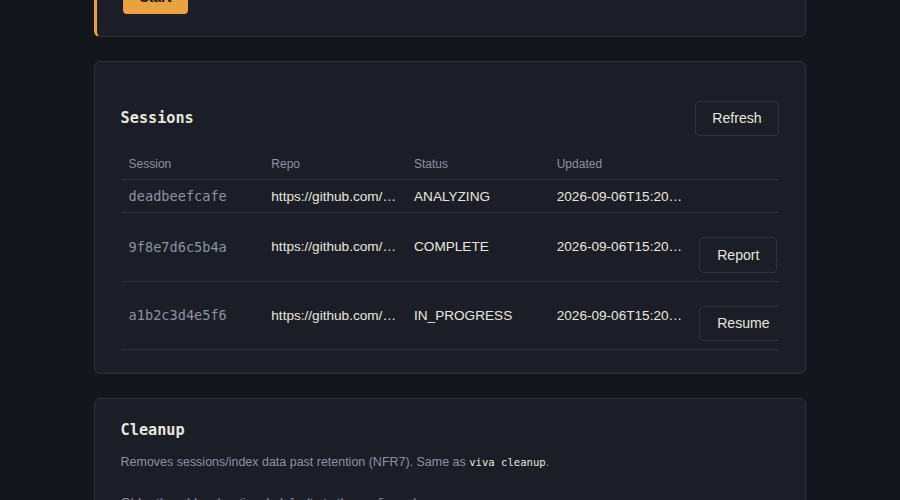
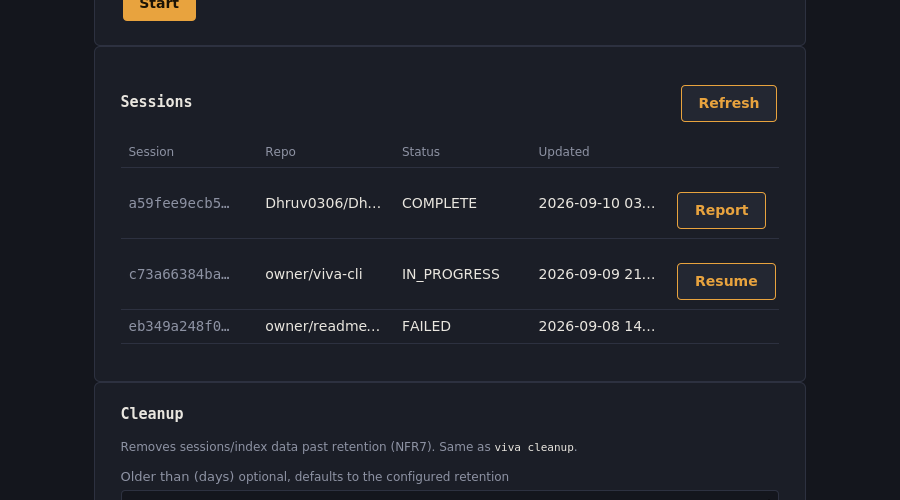
docs(readme): update viva room screenshots to the current UI
All four were stale: the previous set predates both Phase 12 (voice
mode -- the mic toggle, the record button, transcription review) and
this session's report layout/button redesign. Even the two screenshots
untouched by either feature still showed the old low-contrast
secondary button outline, since that change was global.

Rendered from the real shipped index.html/style.css/report.py against
realistic fixture data (not live server output) using wkhtmltoimage --
the only rendering tool available in this environment; a real browser
was not accessible here. Its underlying WebKit is old enough that it
doesn't support :has() or display:grid at all (confirmed by isolated
testing before relying on it for anything), which the report view's
CSS now uses for the two-column layout -- rendering that view directly
would have silently produced a picture of the *old* single-column
layout wearing the new button colors, which is worse than a stale
screenshot. report.png alone uses a float-based CSS override applied
only for this capture (not shipped anywhere in the real stylesheet) to
reproduce the same visual result the real grid produces in an actual
browser. The other three views use no grid/:has() and rendered
directly against the real CSS with no override needed.

Updated two captions to reflect what's now actually shown
(start-and-sessions with the voice checkbox checked, live-question
mid-review of a transcribed answer) rather than leaving them describing
[…]

diff --git a/README.md b/README.md
@@ -155,12 +155,12 @@ sessions have it on.
 <table>
 <tr>
 <td width="50%">
-<img src="docs/screenshots/start-and-sessions.png" alt="Viva Room: start a viva form and the sessions ledger" />
-<br /><sub>Start a viva, and the sessions ledger</sub>
+<img src="docs/screenshots/start-and-sessions.png" alt="Viva Room: start a viva form with voice mode enabled, and the sessions ledger" />
+<br /><sub>Start a viva, with voice mode enabled, and the sessions ledger</sub>
 </td>
 <td width="50%">
-<img src="docs/screenshots/live-question.png" alt="Viva Room: a live question with the countdown timer" />
-<br /><sub>Live Q&amp;A, with the countdown timer</sub>
+<img src="docs/screenshots/live-question.png" alt="Viva Room: a live question with the countdown timer, recorded and transcribed for review" />
+<br /><sub>Live Q&amp;A -- a spoken answer, transcribed and ready to review before submitting</sub>
 </td>
 </tr>
 <tr>
